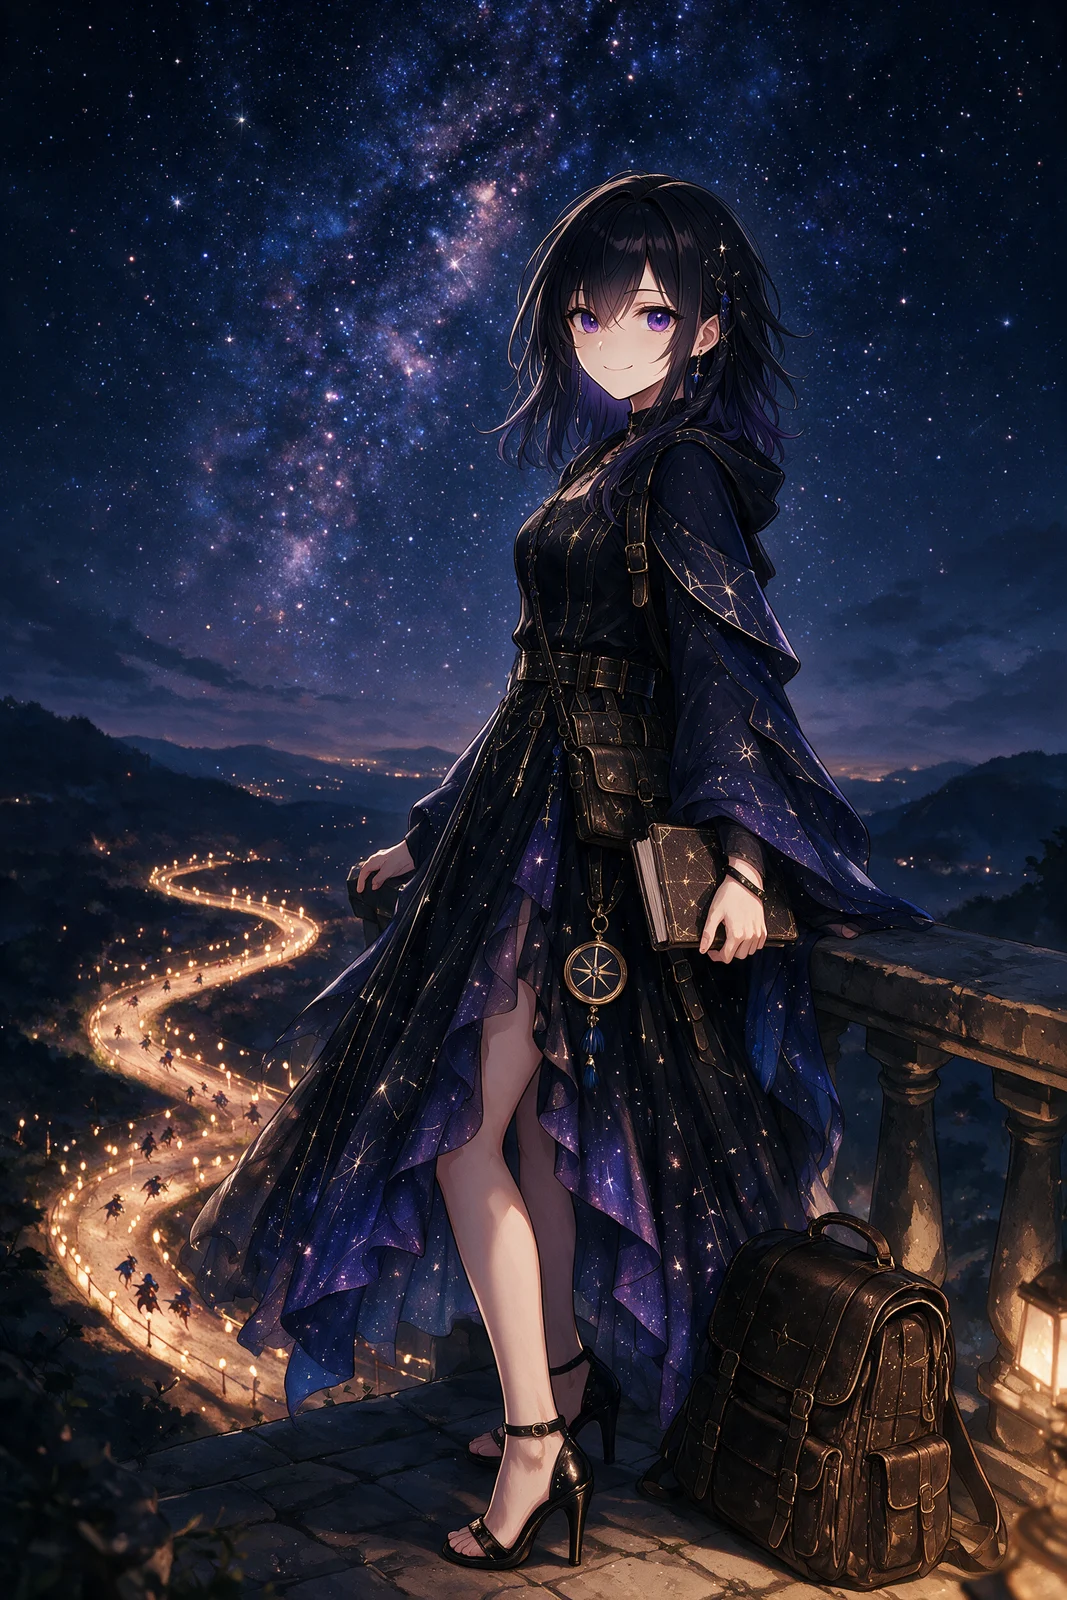
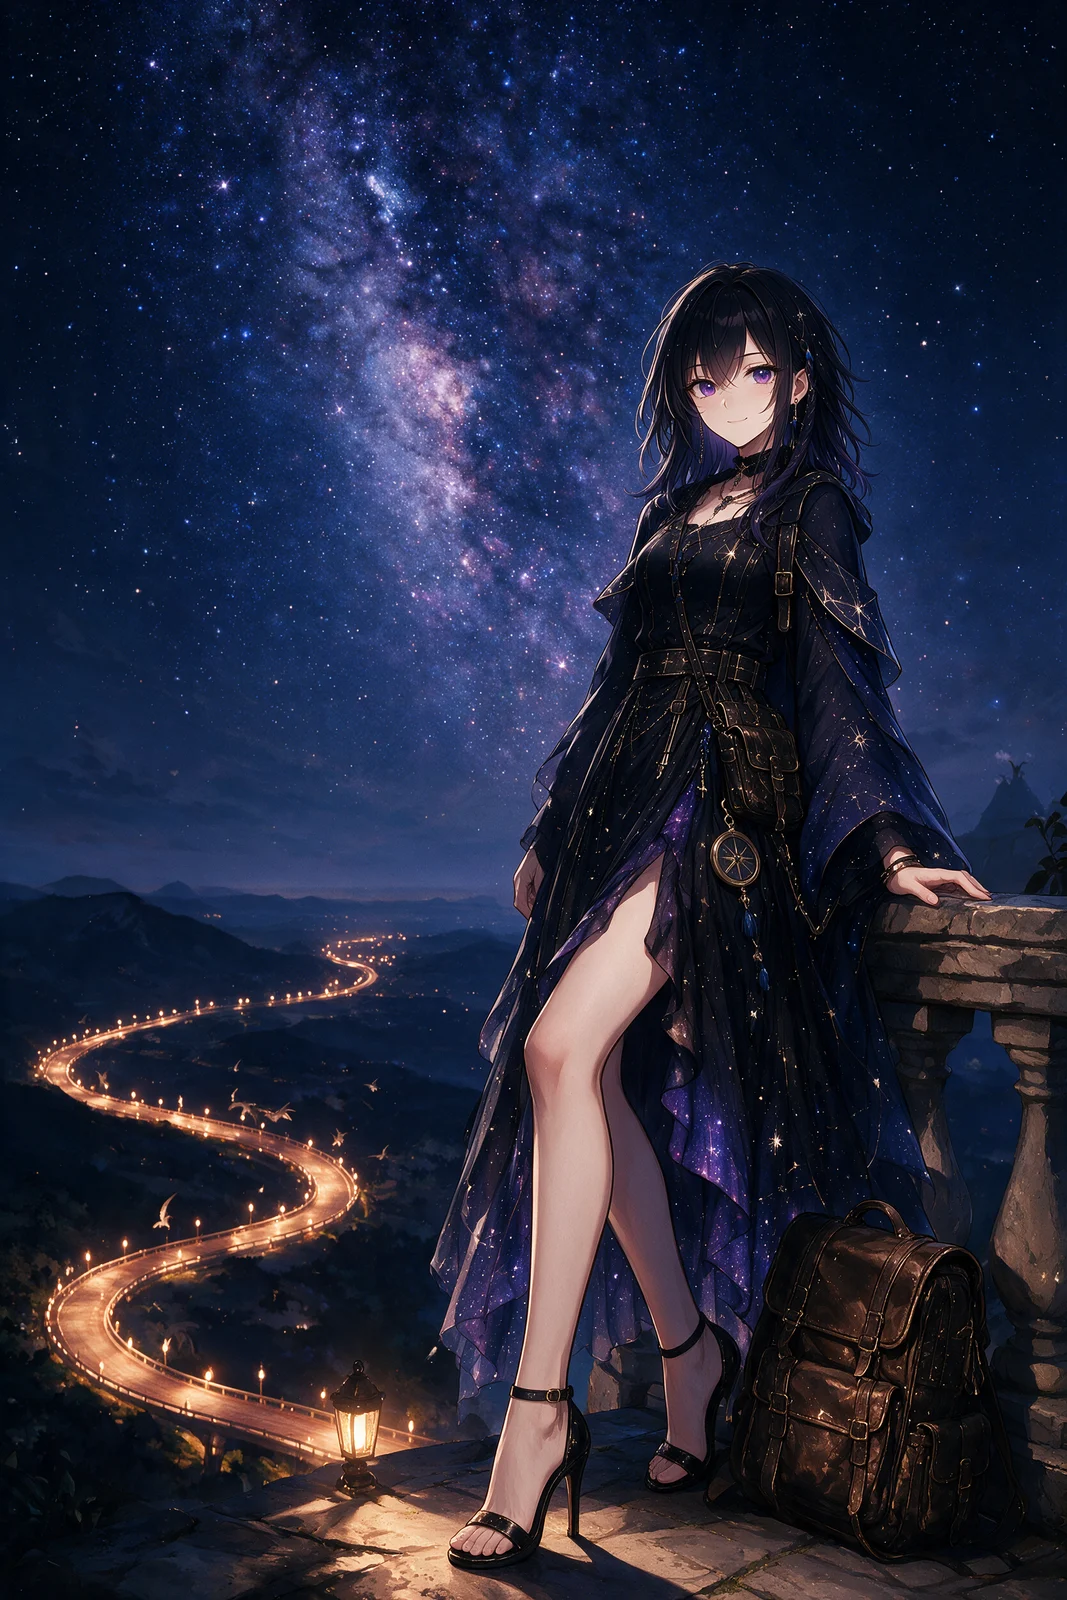
キービジュアルを頭身から作り直し（v3・立ち絵と同等の小顔長身へ）
初版は背景つきにした途端に頭身が退行し、顔も丸くなって子どもに見えていた。
主題（星に近い席）は変えず、頭身と顔の骨格だけを修正。

・頭身を最優先項目としてプロンプト冒頭に単独で宣言（9頭身／腰-踵が身長の
  半分以上／首は長く／肩は狭く）
・顔は骨格で大人にする（面長・輪郭を細く・顎を尖らせ・頬骨を高く）。
  瞳は大きいまま＝目力は落とさない
・カメラは胸の高さで水平。アオリによる脚の短縮を禁止
・コントラポスト＋スリットで腰から踵までの脚線を通す

検証＝承認済み立ち絵とKVを身長同一pxに正規化して並べ、頭の大きさを直接比較。
初版は立ち絵より明確に頭が大きく、今版は立ち絵と同等以上。
docs/CAST_ART_BRIEF.md に罠と検証手順を記載。

diff --git a/docs/CAST_ART_BRIEF.md b/docs/CAST_ART_BRIEF.md
@@ -254,3 +254,20 @@ CSS は `.dlg-standee img { height:100%; object-fit:contain; object-position:bot
 光源：琥珀＝眼下のレース場とテラスの灯（前・下から）／冷たい星明かり＝左上から。
 頭の後ろは暗く保つ（光輪を作らせない）。生成モデルは `seedream_v5_pro`。
 ベース参照は靴＝ヒールの確定版。
+
+### キービジュアルの罠＝頭身が退行する（2026-08-25 実測）
+**同じ参照画像を渡していても、背景つきのキービジュアルでは頭身が勝手に縮む。**
+立ち絵は小顔・長身なのに、シーンを描かせた途端に頭が大きく顔が丸くなり「ガキ」になった。
+背景・小物・光の指示が長いほど、体型の指示が薄まるのが原因。
+
+**対策＝頭身を最優先項目としてプロンプトの冒頭に単独で置く**：
+- 「PROPORTION IS THE WHOLE ASSIGNMENT」と宣言し、9頭身・腰から踵が身長の半分以上・
+  首は長く・肩は狭く、を数値で書く
+- 顔は**骨格**で大人にする（面長／輪郭を細く／顎を小さく尖らせ／頬骨を高く）。
+  **瞳は大きいまま**。細めるのは禁止（目力が死ぬ）
+- カメラは胸の高さで水平。アオリの短縮効果で脚が縮むのを明示的に禁止
+- 立ち姿はコントラポスト＋スリットで腰〜踵の脚線を通す
+
+**検証手順（必須）**：承認済みの立ち絵とキービジュアルを、**身長を同一pxに正規化して並べる**。
+頭の大きさが直接比較できる。目視で「大人っぽい気がする」は当てにならない。
+実測でv1は立ち絵より明確に頭が大きく、v3で立ち絵と同等以上になった。
